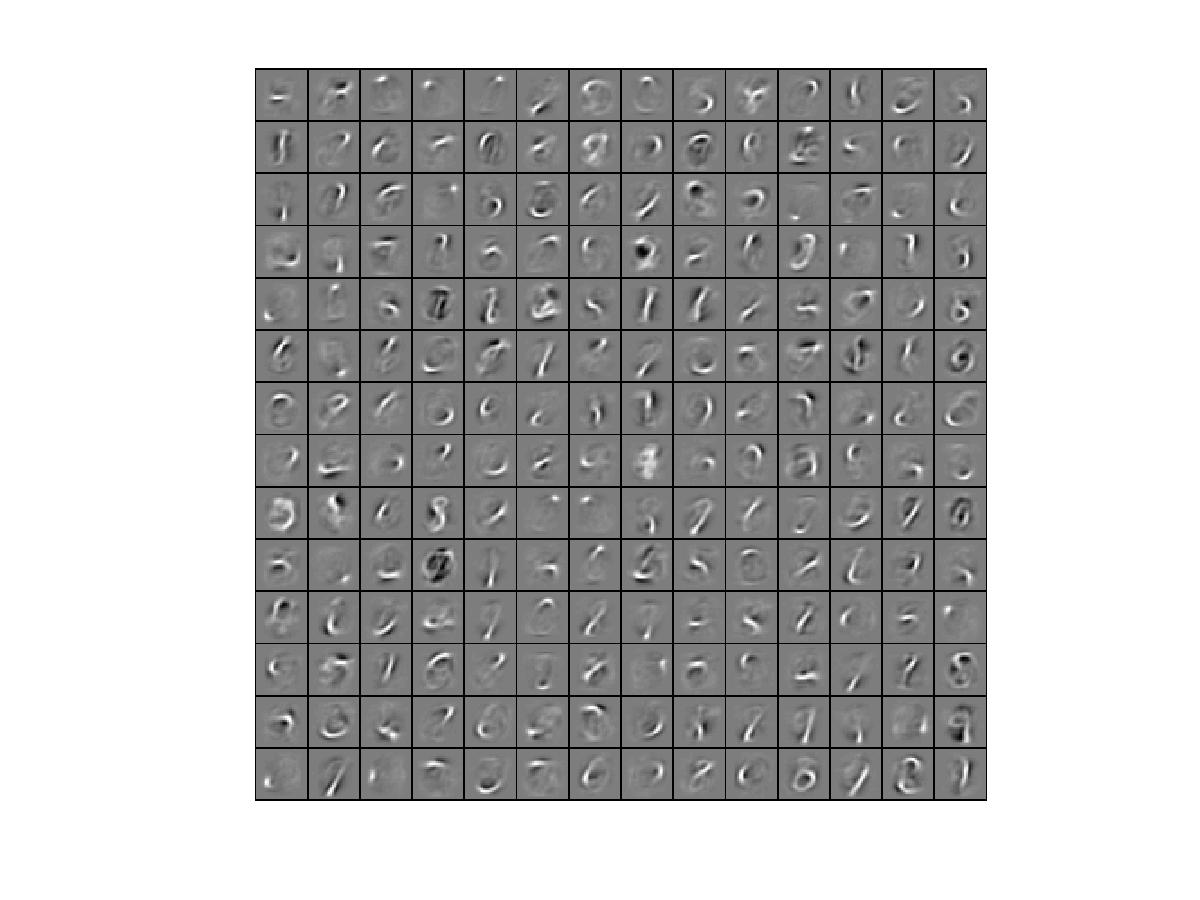
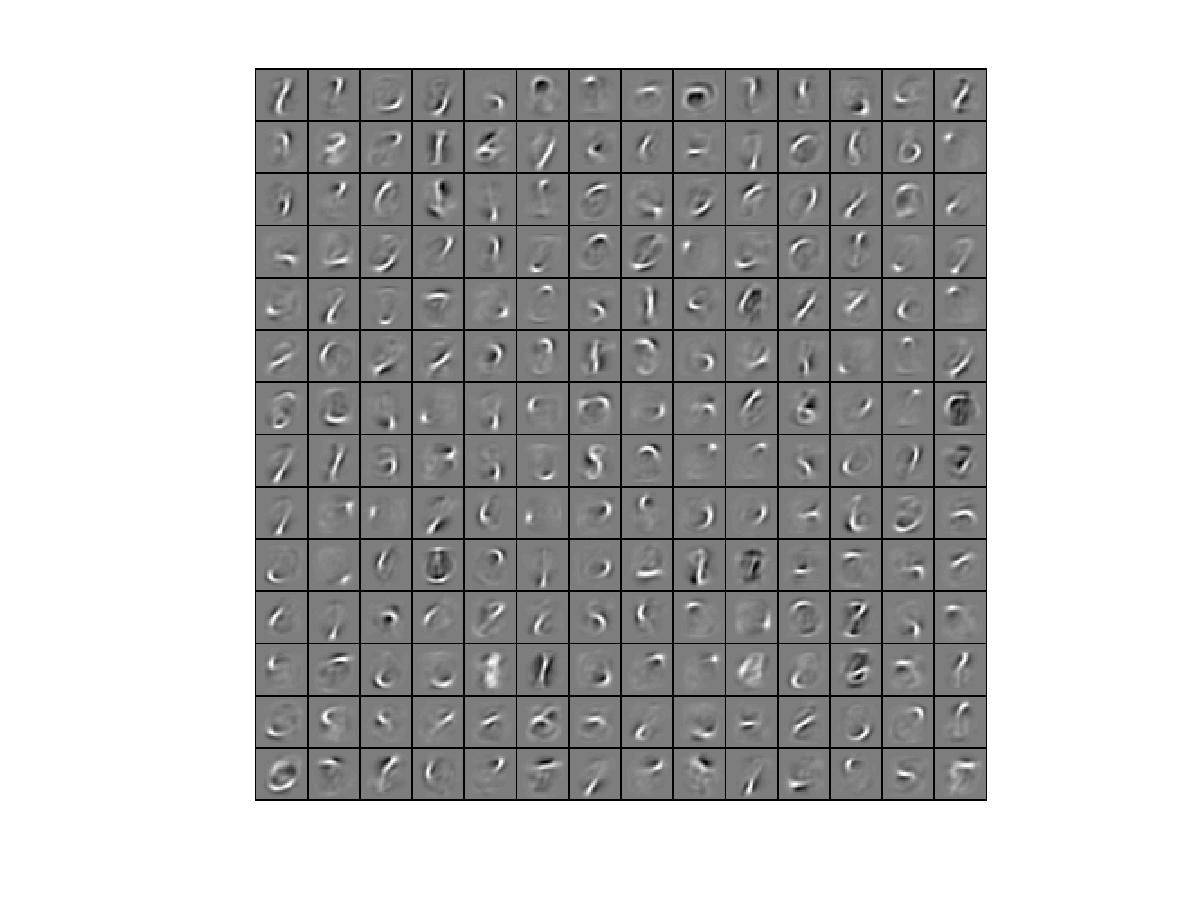
step 2 done

diff --git a/stlExercise.m b/stlExercise.m
@@ -31,8 +31,8 @@ maxIter = 400;
 %  change it.
 
 % Load MNIST database files
-mnistData   = loadMNISTImages('mnist/train-images-idx3-ubyte');
-mnistLabels = loadMNISTLabels('mnist/train-labels-idx1-ubyte');
+mnistData   = loadMNISTImages('train-images-idx3-ubyte');
+mnistLabels = loadMNISTLabels('train-labels-idx1-ubyte');
 
 % Set Unlabeled Set (All Images)
 
@@ -69,7 +69,18 @@ theta = initializeParameters(hiddenSize, inputSize);
 %  Find opttheta by running the sparse autoencoder on
 %  unlabeledTrainingImages
 
-opttheta = theta; 
+addpath minFunc/
+options.Method = 'lbfgs';
+options.maxIter = maxIter;
+options.display = 'on';
+
+[opttheta, cost] = minFunc( @(p) sparseAutoencoderCost(p, ...
+                                   inputSize, hiddenSize, ...
+                                   lambda, sparsityParam, ...
+                                   beta, unlabeledData), ...
+                              theta, options);
+
+% opttheta = theta; 
 
 
 

diff --git a/train.m b/train.m
@@ -28,7 +28,7 @@ beta = 3;            % weight of sparsity penalty term
 %  After implementing sampleIMAGES, the display_network command should
 %  display a random sample of 200 patches from the dataset
 
-numpatches = 10000;
+numpatches = 60000;
 images = loadMNISTImages('train-images-idx3-ubyte');
 patches = images(:,1:numpatches);
 display_network(patches(:,randi(size(patches,2),200,1)),8);
